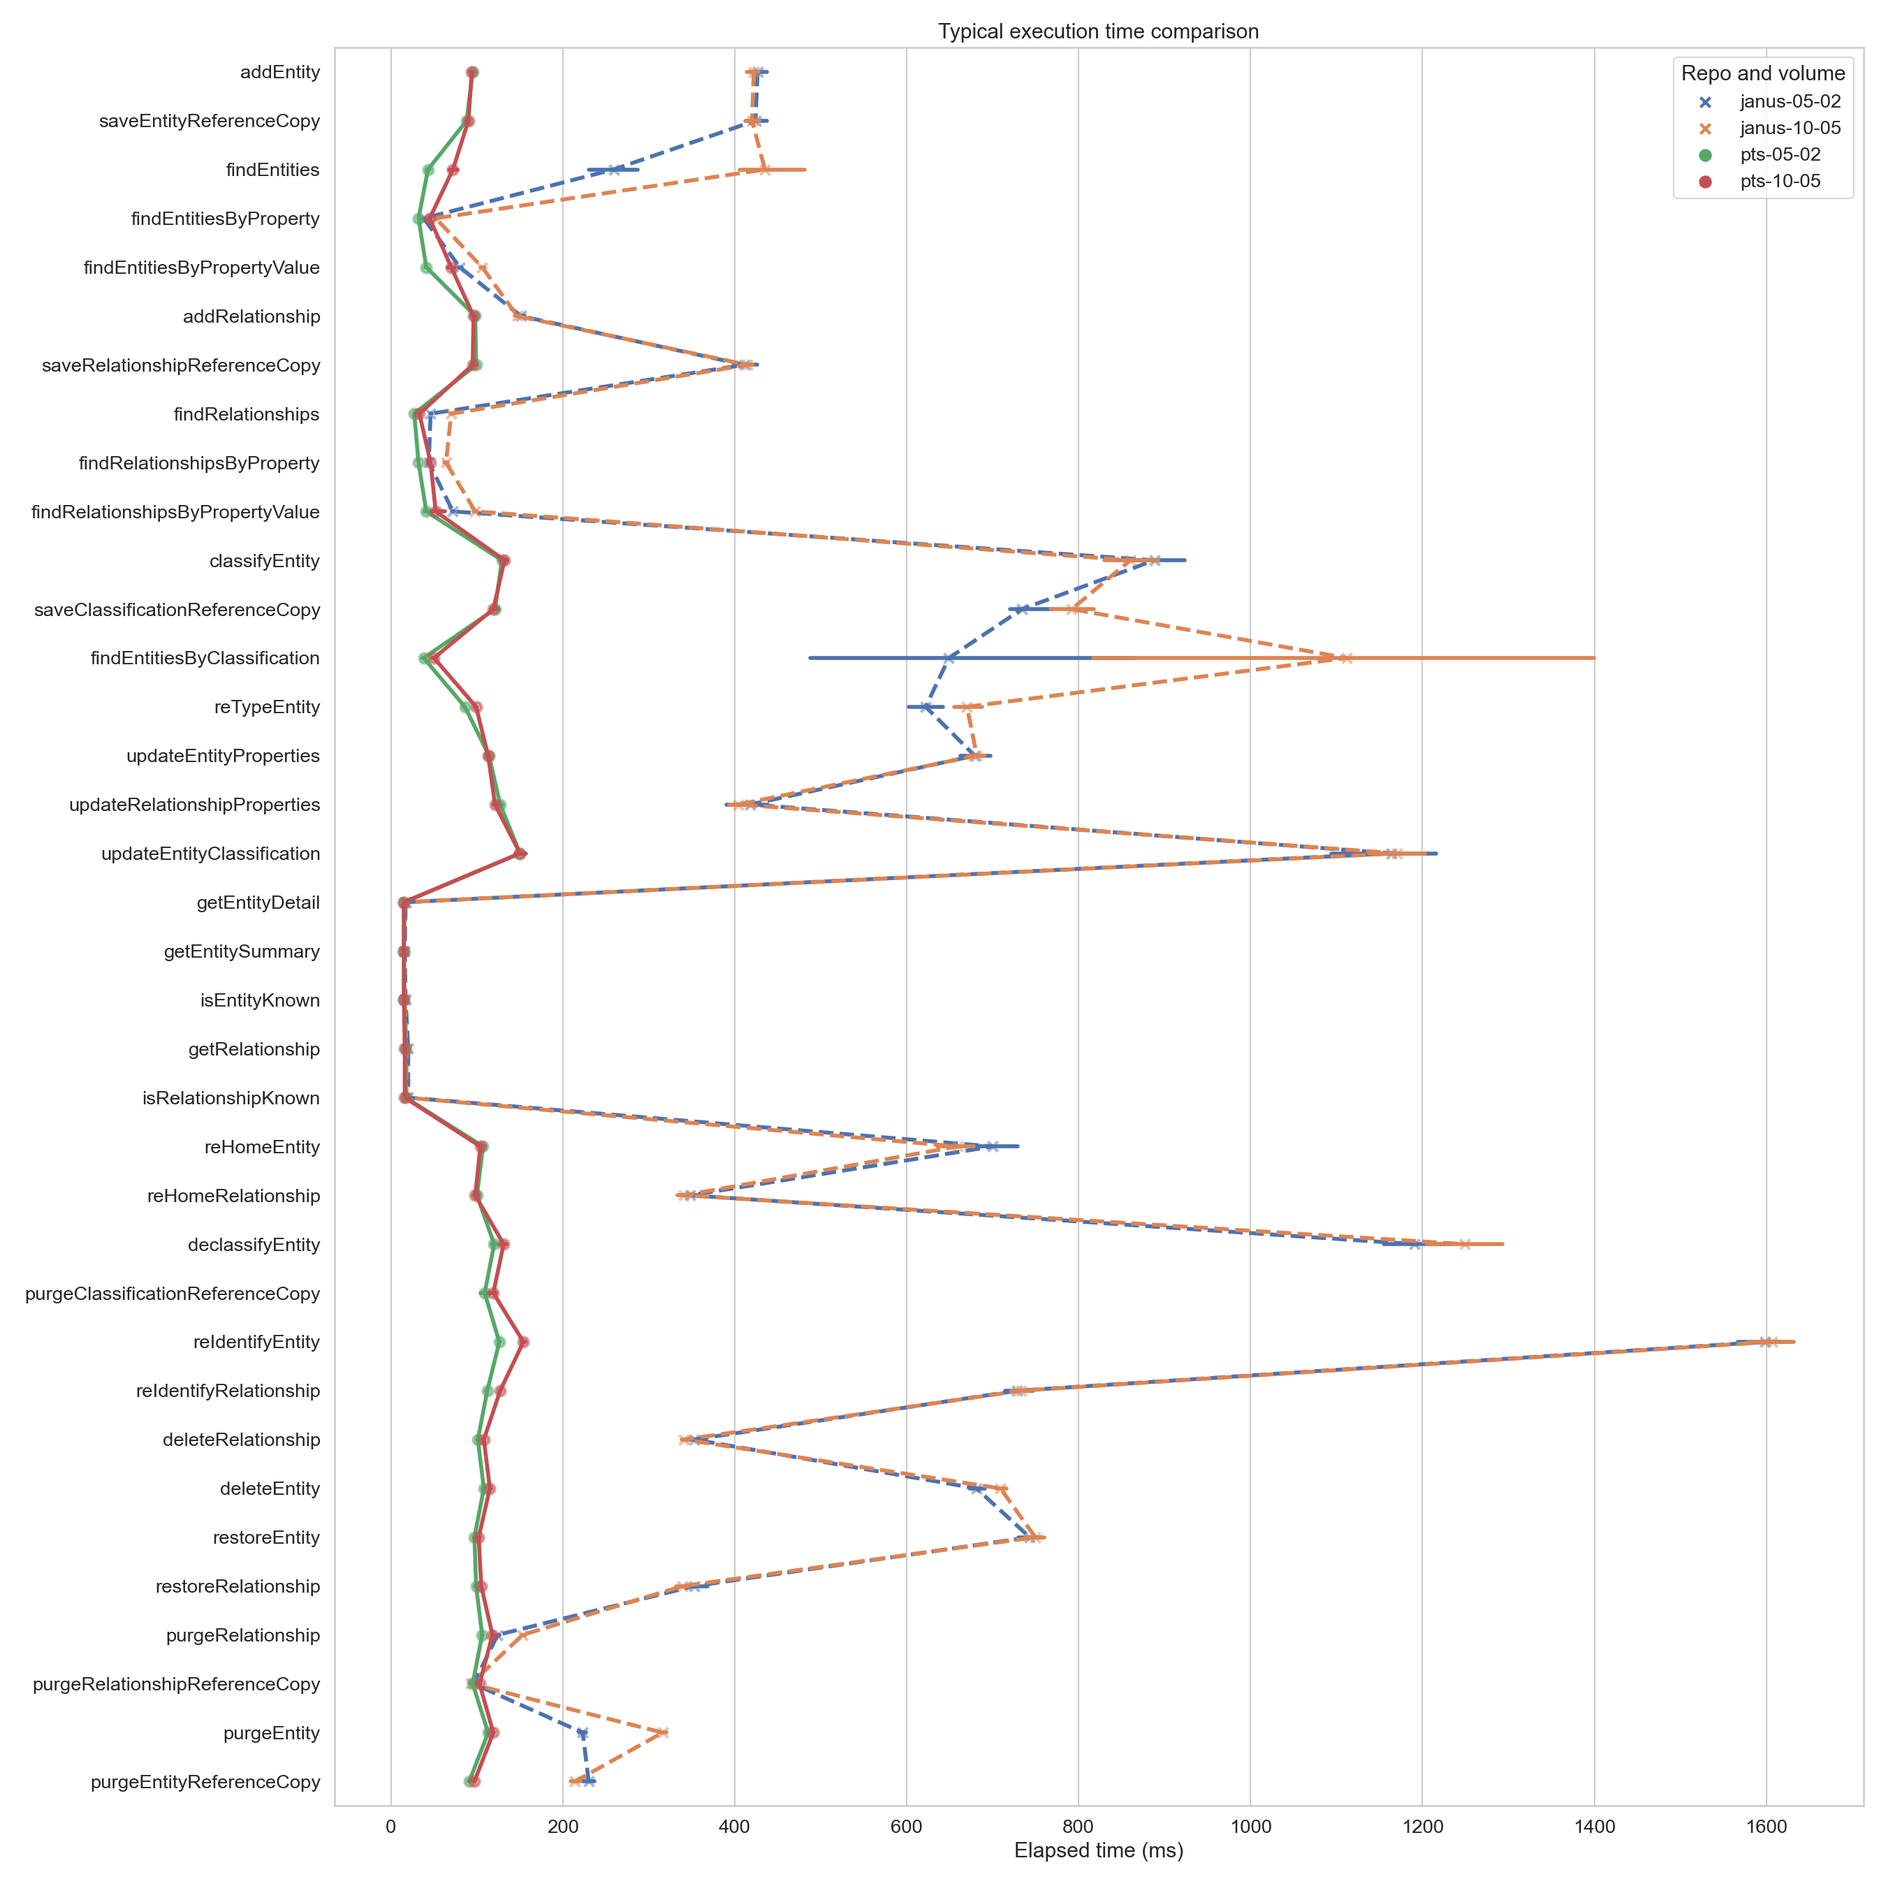
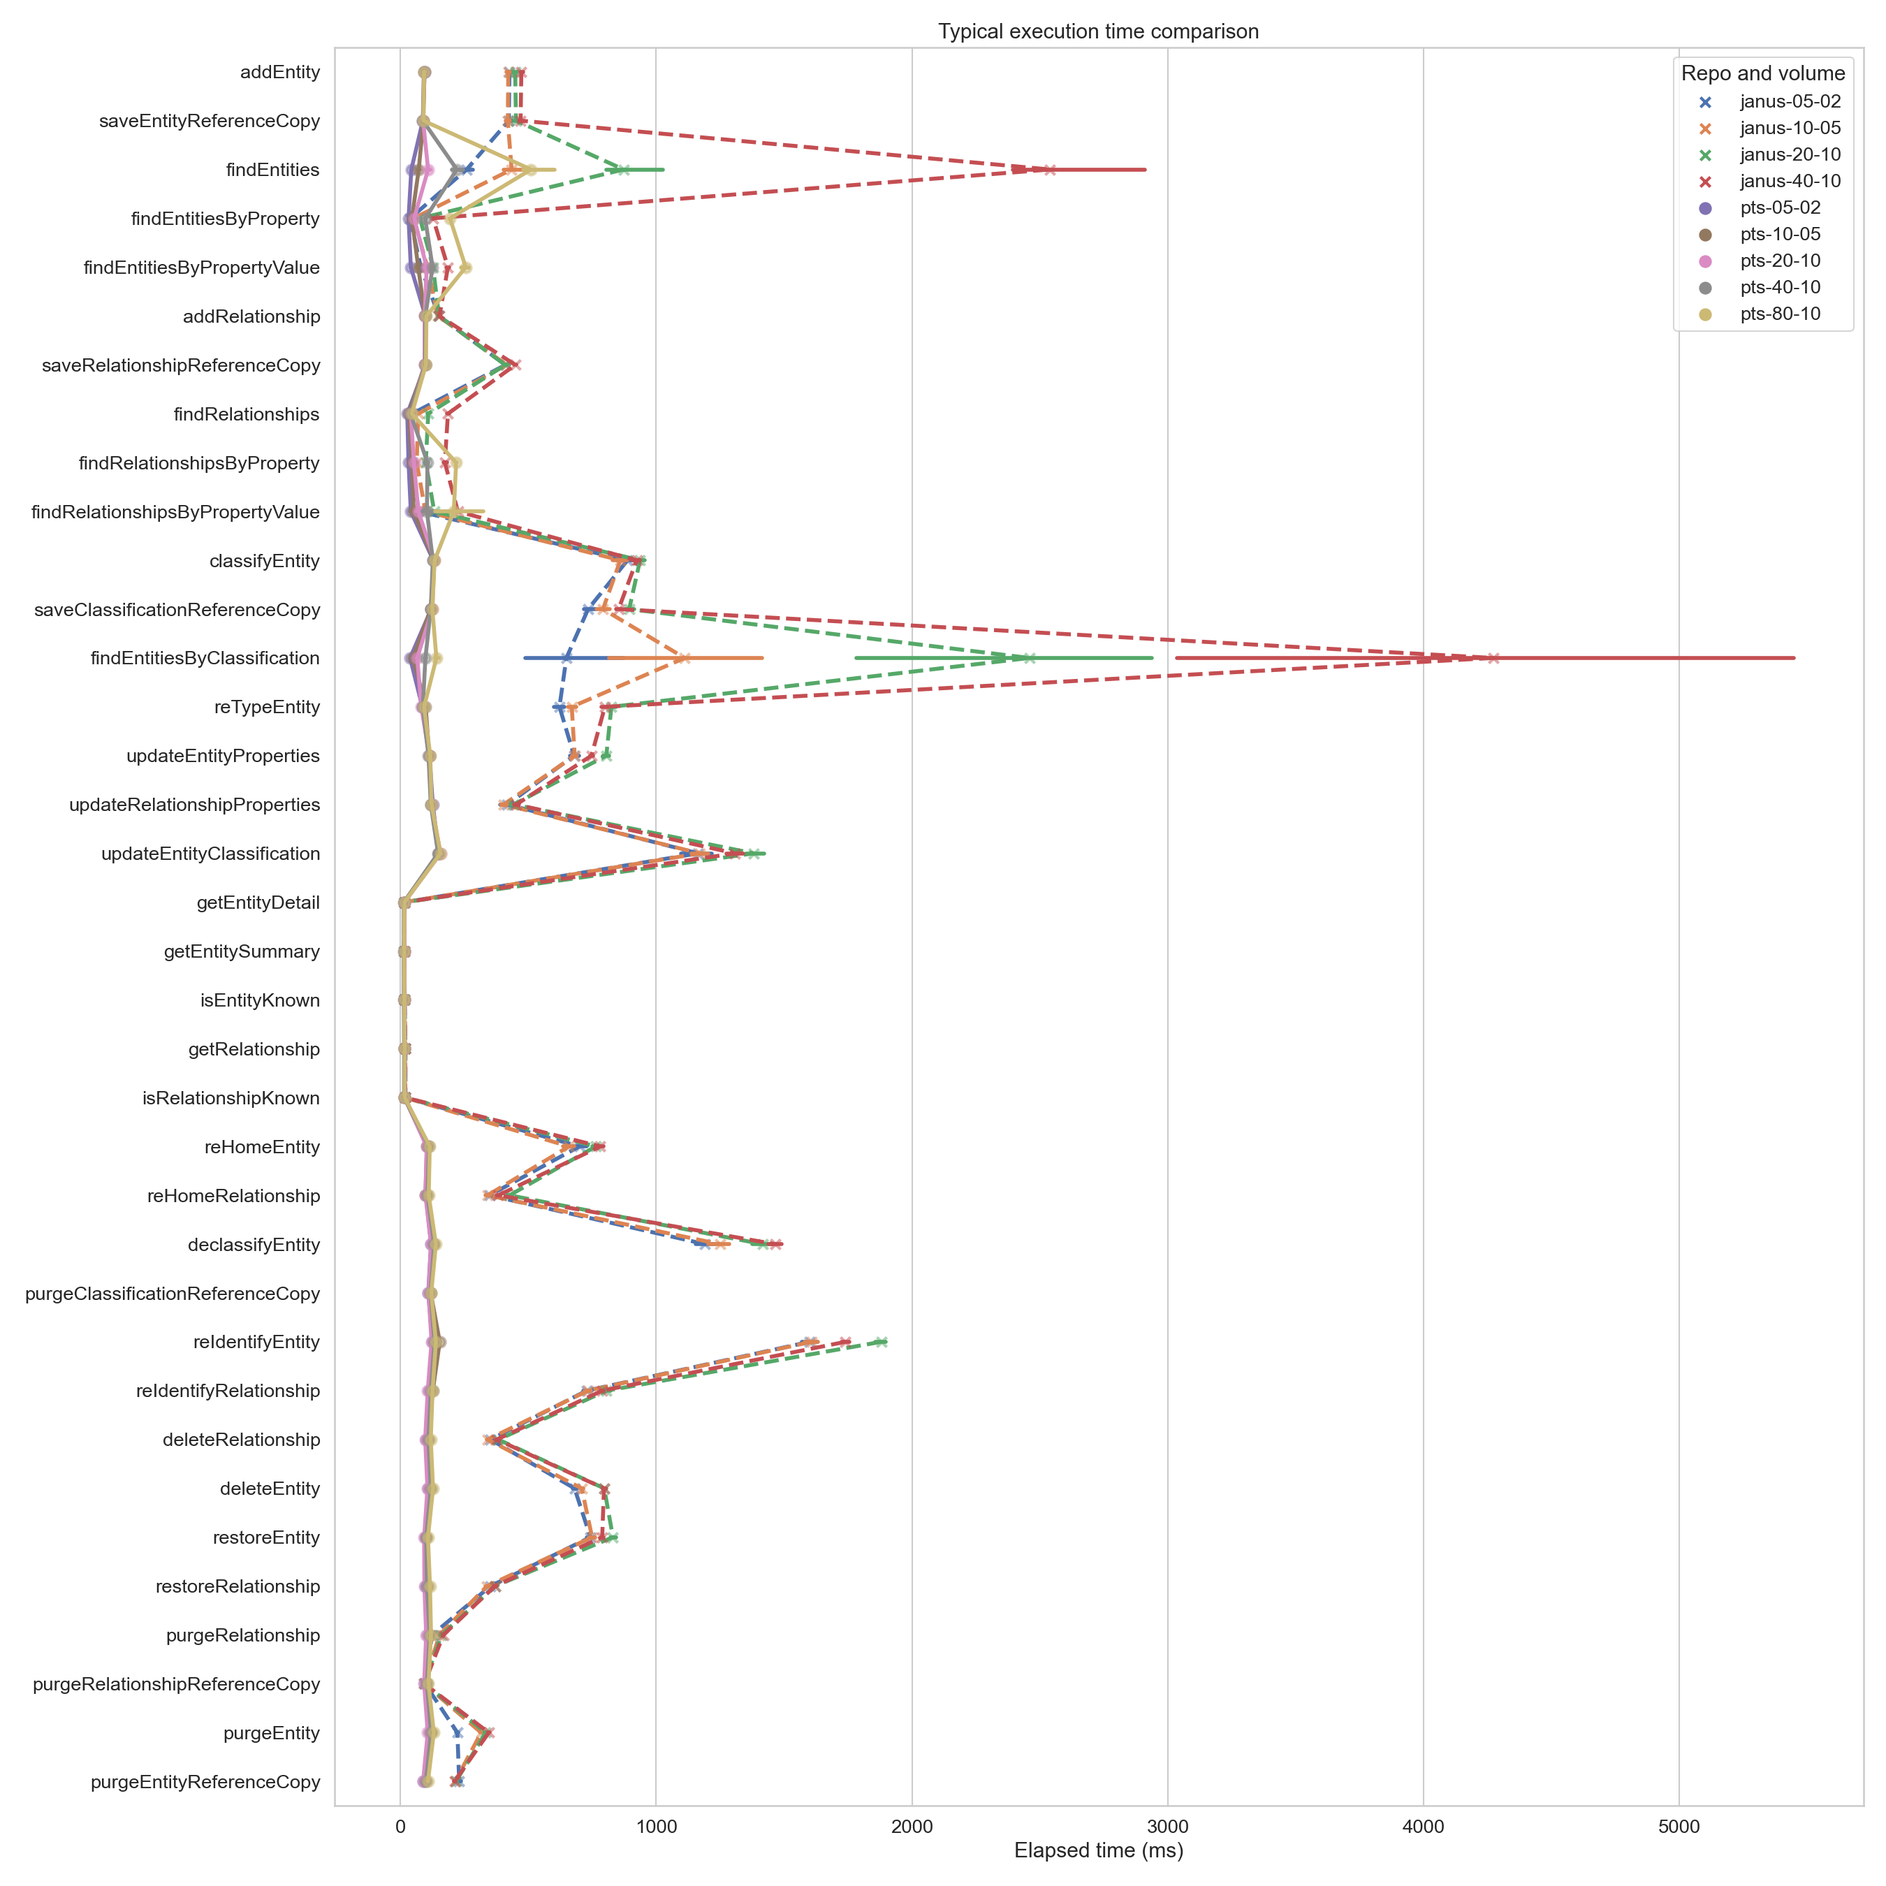
Adds further graphical comparison and summary analysis of comparative PTS results

diff --git a/cts/README.md b/cts/README.md
@@ -193,6 +193,9 @@ hours in this connector, so the complete graph queries portion would take _more 
 complete (even at the lowest volume (5-2) configuration). This portion of the tests was therefore explicitly skipped,
 and hence no results are shown for those methods below.
 
+(At the largest test scale of `80-10`, the Janus connector also stopped logging any activity after 5 days of non-stop
+execution, but did not complete the battery of tests, so no results are logged.)
+
 ![Graphical comparison](results/2.9-21.04-1.16.0-beta/repo_comparison.png)
 
 > Graphical comparison of repositories
@@ -204,73 +207,85 @@ given repository (`pts` = Crux, `janus` = JanusGraph), with a given volume of me
 a bootstrapping process: in simple terms, the larger the horizontal line, the more variability there is for that
 particular method's execution time (a singular median value is insufficient to represent such variability).
 
-Note that in almost all cases, the Crux repository is _significantly_ faster than JanusGraph: always completing in
-less than 200ms and with very little variability (no horizontal confidence intervals are even visible). For JanusGraph,
-on the other hand, there is significant variability (in particular for methods like `findEntitiesByClassification`),
-and there are numerous examples of the median execution time taking over a full second.
+The Crux results can be difficult to see in detail due to the skew from the Janus results, so it may be easier to look
+at this more granular comparison that drops the higher scales of Janus for readability of the Crux results:
+
+![Graphical comparison without large Janus volumes](results/2.9-21.04-1.16.0-beta/repo_comparison_granular.png)
+
+> Graphical comparison of repositories (without large Janus volumes)
+
+Note that in almost all cases, the Crux repository is _significantly_ faster than JanusGraph: at most volumes completing
+all methods in less than 200ms and with very little variability (horizontal confidence intervals are not even visible
+for most methods). For JanusGraph, on the other hand, there is significant variability (in particular for methods like
+`findEntitiesByClassification`), and there are numerous examples of the median execution time taking more than multiple
+seconds.
+
+In fact, from this second chart, you can see that even at 8 times the volume of metadata the Crux connector still
+outperforms the JanusGraph connector in almost every method (the only exceptions being a few of the find methods, where
+the performance is approximately even at 2-4 times the volume).
 
 Following is a table of the specific median values for each repository and volume (also including the results for
 methods that are only currently implemented by the Crux repository connector, or only return in a sufficiently timely
 manner to be included in the tests):
 
-Profile | Method | 05-02 (Crux) | 05-02 (Janus) | 10-05 (Crux) | 10-05 (Janus)
----|---|---|---|---|---
-Entity creation | addEntity | 95.0 | 426.5 | 94.0 | 422.0
-... | saveEntityReferenceCopy | 88.0 | 424.0 | 90.0 | 420.0
-Entity search | findEntities | 43.0 | 259.0 | 72.0 | 435.0
-... | findEntitiesByProperty | 32.0 | 38.0 | 45.0 | 52.0
-... | findEntitiesByPropertyValue | 41.0 | 80.0 | 70.0 | 106.0
-Relationship creation | addRelationship | 98.0 | 151.0 | 96.0 | 147.0
-... | saveRelationshipReferenceCopy | 99.0 | 411.0 | 95.0 | 415.0
-Relationship search | findRelationships | 27.0 | 46.0 | 33.0 | 70.0
-... | findRelationshipsByProperty | 32.0 | 44.0 | 46.0 | 64.0
-... | findRelationshipsByPropertyValue | 41.0 | 72.0 | 52.0 | 98.0
-Entity classification | classifyEntity | 129.0 | 888.0 | 132.0 | 860.0
-... | saveClassificationReferenceCopy | 121.0 | 734.0 | 119.0 | 792.0
-Classification search | findEntitiesByClassification | 38.0 | 649.0 | 50.0 | 1111.5
-Entity update | reTypeEntity | 91.0 | 348.0 | 104.0 | 343.0
-... | updateEntityProperties | 114.0 | 679.0 | 113.0 | 681.5
-Relationship update | updateRelationshipProperties | 127.0 | 418.0 | 121.0 | 404.0
-Classification update | updateEntityClassification | 150.0 | 1164.0 | 150.0 | 1170.5
-Entity undo | undoEntityUpdate | 111.0 | -- | 107.0 | --
-Relationship undo | undoRelationshipUpdate | 123.0 | -- | 122.0 | --
-Entity retrieval | getEntityDetail | 15.0 | 17.0 | 15.0 | 16.0
-... | getEntitySummary | 15.0 | 16.0 | 15.0 | 15.0
-... | isEntityKnown | 15.0 | 17.0 | 15.0 | 16.0
-Entity history retrieval | getEntityDetail | 18.0 | -- | 18.0 | --
-... | getEntityDetailHistory | 20.0 | -- | 19.0 | --
-Relationship retrieval | getRelationship | 17.0 | 20.0 | 16.0 | 18.0
-... | isRelationshipKnown | 17.0 | 20.0 | 16.0 | 18.0
-Relationship history retrieval | getRelationship | 20.0 | -- | 18.0 | --
-... | getRelationshipHistory | 21.0 | -- | 19.0 | --
-Entity history search | findEntities | 66.0 | -- | 96.0 | --
-... | findEntitiesByProperty | 36.0 | -- | 40.0 | --
-... | findEntitiesByPropertyValue | 51.0 | -- | 66.0 | --
-Relationship history search | findRelationships | 33.0 | -- | 41.0 | --
-... | findRelationshipsByProperty | 38.0 | -- | 50.0 | --
-... | findRelationshipsByPropertyValue | 52.5 | -- | 86.0 | --
-Graph queries | getEntityNeighborhood | 32.0 | -- | 35.0 | --
-... | getLinkingEntities | 20.0 | -- | 38.0 | --
-... | getRelatedEntities | 1909.0 | -- | 4028.5 | --
-... | getRelationshipsForEntity | 29.0 | -- | 33.0 | --
-Graph history queries | getEntityNeighborhood | 33.0 | -- | 35.0 | --
-... | getLinkingEntities | 20.0 | -- | 37.0 | --
-... | getRelatedEntities | 1904.0 | -- | 4044.0 | --
-... | getRelationshipsForEntity | 28.0 | -- | 31.0 | --
-Entity re-home | reHomeEntity | 107.0 | 700.0 | 104.0 | 659.0
-Relationship re-home | reHomeRelationship | 100.0 | 348.0 | 98.0 | 341.0
-Entity declassify | declassifyEntity | 120.0 | 1191.0 | 131.0 | 1249.0
-... | purgeClassificationReferenceCopy | 109.0 | -- | 119.0 | --
-Entity re-identify | reIdentifyEntity | 126.0 | 1599.0 | 154.0 | 1606.5
-Relationship re-identify | reIdentifyRelationship | 112.0 | 728.5 | 127.0 | 733.0
-Relationship delete | deleteRelationship | 101.0 | 352.5 | 108.0 | 341.0
-Entity delete | deleteEntity | 108.0 | 681.0 | 115.0 | 709.0
-Entity restore | restoreEntity | 97.0 | 743.0 | 102.0 | 749.5
-Relationship restore | restoreRelationship | 99.0 | 352.5 | 105.0 | 339.0
-Relationship purge | purgeRelationship | 106.0 | 124.0 | 118.0 | 153.0
-... | purgeRelationshipReferenceCopy | 95.0 | 96.0 | 103.0 | 93.0
-Entity purge | purgeEntity | 113.0 | 223.0 | 119.0 | 316.0
-... | purgeEntityReferenceCopy | 91.0 | 230.0 | 97.0 | 214.0
+Profile | Method | 05-02 (Crux) | 05-02 (Janus) | 10-05 (Crux) | 10-05 (Janus) | 20-10 (Crux) | 20-10 (Janus) | 40-10 (Crux) | 40-10 (Janus) | 80-10 (Crux) | 80-10 (Janus)
+---|---|---|---|---|---|---|---|---|---|---|---
+Entity creation | addEntity | 95.0 | 426.5 | 94.0 | 422.0 | 92.0 | 449.0 | 92.0 | 473.0 | 93.0 | DNF
+... | saveEntityReferenceCopy | 88.0 | 424.0 | 90.0 | 420.0 | 89.0 | 452.0 | 88.0 | 470.0 | 90.0 | DNF
+Entity search | findEntities | 43.0 | 259.0 | 72.0 | 435.0 | 108.5 | 873.0 | 221.0 | 2539.5 | 511.0 | DNF
+... | findEntitiesByProperty | 32.0 | 38.0 | 45.0 | 52.0 | 54.0 | 77.0 | 97.0 | 128.0 | 194.0 | DNF
+... | findEntitiesByPropertyValue | 41.0 | 80.0 | 70.0 | 106.0 | 103.0 | 128.0 | 126.0 | 186.0 | 255.5 | DNF
+Relationship creation | addRelationship | 98.0 | 151.0 | 96.0 | 147.0 | 95.0 | 151.0 | 98.0 | 153.0 | 102.0 | DNF
+... | saveRelationshipReferenceCopy | 99.0 | 411.0 | 95.0 | 415.0 | 95.0 | 410.0 | 97.0 | 449.5 | 100.0 | DNF
+Relationship search | findRelationships | 27.0 | 46.0 | 33.0 | 70.0 | 41.0 | 109.0 | 40.0 | 186.0 | 45.0 | DNF
+... | findRelationshipsByProperty | 32.0 | 44.0 | 46.0 | 64.0 | 53.0 | 99.5 | 106.0 | 174.0 | 218.0 | DNF
+... | findRelationshipsByPropertyValue | 41.0 | 72.0 | 52.0 | 98.0 | 70.5 | 132.5 | 104.0 | 225.0 | 209.0 | DNF
+Entity classification | classifyEntity | 129.0 | 888.0 | 132.0 | 860.0 | 133.0 | 937.0 | 127.0 | 924.0 | 134.0 | DNF
+... | saveClassificationReferenceCopy | 121.0 | 734.0 | 119.0 | 792.0 | 125.0 | 894.5 | 119.0 | 853.0 | 125.0 | DNF
+Classification search | findEntitiesByClassification | 38.0 | 649.0 | 50.0 | 1111.5 | 66.0 | 2459.0 | 98.0 | 4272.0 | 141.0 | DNF
+Entity update | reTypeEntity | 91.0 | 348.0 | 104.0 | 343.0 | 85.0 | 495.5 | 92.0 | 459.0 | 95.0 | DNF
+... | updateEntityProperties | 114.0 | 679.0 | 113.0 | 681.5 | 113.0 | 805.0 | 110.0 | 747.0 | 117.0 | DNF
+Relationship update | updateRelationshipProperties | 127.0 | 418.0 | 121.0 | 404.0 | 122.0 | 443.0 | 119.0 | 453.0 | 122.0 | DNF
+Classification update | updateEntityClassification | 150.0 | 1164.0 | 150.0 | 1170.5 | 157.0 | 1381.0 | 147.5 | 1308.0 | 157.0 | DNF
+Entity undo | undoEntityUpdate | 111.0 | -- | 107.0 | -- | 110.0 | -- | 109.0 | -- | 112.0 | --
+Relationship undo | undoRelationshipUpdate | 123.0 | -- | 122.0 | -- | 120.0 | -- | 117.0 | -- | 123.0 | --
+Entity retrieval | getEntityDetail | 15.0 | 17.0 | 15.0 | 16.0 | 16.0 | 16.0 | 14.0 | 17.0 | 16.0 | DNF
+... | getEntitySummary | 15.0 | 16.0 | 15.0 | 15.0 | 16.0 | 14.0 | 14.0 | 15.0 | 15.0 | DNF
+... | isEntityKnown | 15.0 | 17.0 | 15.0 | 16.0 | 16.0 | 16.0 | 14.0 | 17.0 | 16.0 | DNF
+Entity history retrieval | getEntityDetail | 18.0 | -- | 18.0 | -- | 19.0 | -- | 17.0 | -- | 18.0 | --
+... | getEntityDetailHistory | 20.0 | -- | 19.0 | -- | 20.0 | -- | 19.0 | -- | 20.0 | --
+Relationship retrieval | getRelationship | 17.0 | 20.0 | 16.0 | 18.0 | 17.0 | 18.0 | 15.0 | 19.0 | 17.0 | DNF
+... | isRelationshipKnown | 17.0 | 20.0 | 16.0 | 18.0 | 17.0 | 18.0 | 15.0 | 19.0 | 17.0 | DNF
+Relationship history retrieval | getRelationship | 20.0 | -- | 18.0 | -- | 20.0 | -- | 18.0 | -- | 19.0 | --
+... | getRelationshipHistory | 21.0 | -- | 19.0 | -- | 21.0 | -- | 19.0 | -- | 21.0 | --
+Entity history search | findEntities | 66.0 | -- | 96.0 | -- | 173.0 | -- | 577.5 | -- | 1586.0 | --
+... | findEntitiesByProperty | 36.0 | -- | 40.0 | -- | 50.0 | -- | 61.0 | -- | 90.0 | --
+... | findEntitiesByPropertyValue | 51.0 | -- | 66.0 | -- | 108.0 | -- | 195.0 | -- | 502.0 | --
+Relationship history search | findRelationships | 33.0 | -- | 41.0 | -- | 50.0 | -- | 52.0 | -- | 60.0 | --
+... | findRelationshipsByProperty | 38.0 | -- | 50.0 | -- | 61.0 | -- | 65.0 | -- | 76.0 | --
+... | findRelationshipsByPropertyValue | 52.5 | -- | 86.0 | -- | 113.0 | -- | 157.0 | -- | 305.5 | --
+Graph queries | getEntityNeighborhood | 32.0 | -- | 35.0 | -- | 35.0 | -- | -- | -- | -- | --
+... | getLinkingEntities | 20.0 | -- | 38.0 | -- | 3230.0 | -- | -- | -- | -- | --
+... | getRelatedEntities | 1909.0 | -- | 4028.5 | -- | 9125.5 | -- | -- | -- | -- | --
+... | getRelationshipsForEntity | 29.0 | -- | 33.0 | -- | 33.0 | -- | -- | -- | -- | --
+Graph history queries | getEntityNeighborhood | 33.0 | -- | 35.0 | -- | 35.0 | -- | -- | -- | -- | --
+... | getLinkingEntities | 20.0 | -- | 37.0 | -- | 3218.5 | -- | -- | -- | -- | --
+... | getRelatedEntities | 1904.0 | -- | 4044.0 | -- | 9058.5 | -- | -- | -- | -- | --
+... | getRelationshipsForEntity | 28.0 | -- | 31.0 | -- | 31.0 | -- | -- | -- | -- | --
+Entity re-home | reHomeEntity | 107.0 | 700.0 | 104.0 | 659.0 | 103.0 | 764.0 | 112.0 | 781.5 | 115.0 | DNF
+Relationship re-home | reHomeRelationship | 100.0 | 348.0 | 98.0 | 341.0 | 98.0 | 427.0 | 106.0 | 383.0 | 111.0 | DNF
+Entity declassify | declassifyEntity | 120.0 | 1191.0 | 131.0 | 1249.0 | 120.0 | 1415.5 | 132.0 | 1465.0 | 139.0 | DNF
+... | purgeClassificationReferenceCopy | 109.0 | -- | 119.0 | -- | 110.0 | -- | 118.0 | -- | 121.0 | --
+Entity re-identify | reIdentifyEntity | 126.0 | 1599.0 | 154.0 | 1606.5 | 122.0 | 1879.5 | 133.0 | 1739.5 | 139.0 | DNF
+Relationship re-identify | reIdentifyRelationship | 112.0 | 728.5 | 127.0 | 733.0 | 107.0 | 806.0 | 119.0 | 789.0 | 126.0 | DNF
+Relationship delete | deleteRelationship | 101.0 | 352.5 | 108.0 | 341.0 | 97.0 | 383.0 | 110.0 | 377.0 | 119.0 | DNF
+Entity delete | deleteEntity | 108.0 | 681.0 | 115.0 | 709.0 | 106.0 | 797.0 | 119.0 | 796.0 | 128.0 | DNF
+Entity restore | restoreEntity | 97.0 | 743.0 | 102.0 | 749.5 | 93.0 | 831.0 | 101.0 | 789.0 | 108.0 | DNF
+Relationship restore | restoreRelationship | 99.0 | 352.5 | 105.0 | 339.0 | 94.0 | 371.0 | 104.0 | 370.0 | 116.0 | DNF
+Relationship purge | purgeRelationship | 106.0 | 124.0 | 118.0 | 153.0 | 101.0 | 161.0 | 115.0 | 168.0 | 120.0 | DNF
+... | purgeRelationshipReferenceCopy | 95.0 | 96.0 | 103.0 | 93.0 | 93.0 | 93.0 | 104.0 | 94.0 | 110.0 | DNF
+Entity purge | purgeEntity | 113.0 | 223.0 | 119.0 | 316.0 | 107.0 | 334.0 | 120.0 | 345.5 | 131.0 | DNF
+... | purgeEntityReferenceCopy | 91.0 | 230.0 | 97.0 | 214.0 | 89.0 | 217.0 | 100.0 | 212.0 | 108.0 | DNF
 
 ----
 License: [CC BY 4.0](https://creativecommons.org/licenses/by/4.0/),
